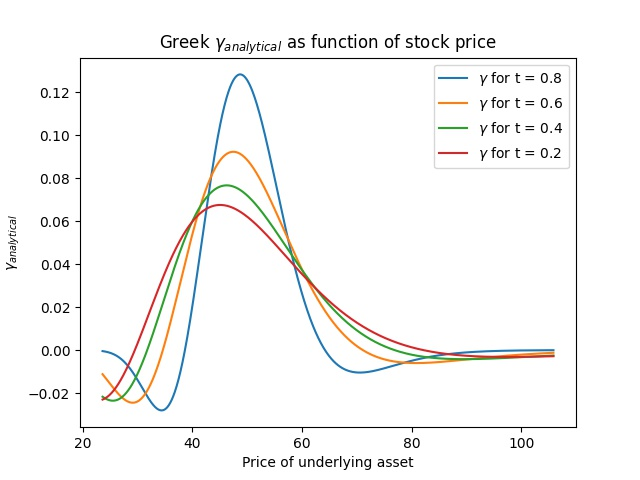
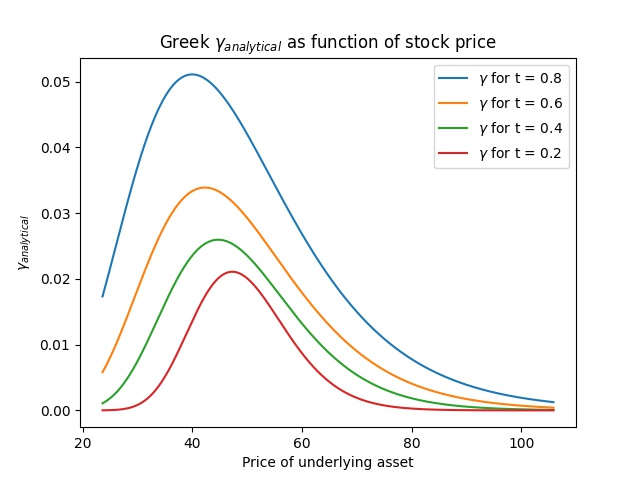
Added new expressions for the analytical greeks
Seem to fit better

diff --git a/Project5_BS/CodeBase/visualize.py b/Project5_BS/CodeBase/visualize.py
@@ -8,6 +8,7 @@ from scipy.misc import derivative
 sigma = 0.4
 E = 50
 r = 0.04
+D = 0.12
 
 
 data = open("u.txt", "r")
@@ -46,16 +47,14 @@ plt.savefig("Results/Num_sol.jpeg")
 plt.show()
 
 
-def d1(S_t, ti):
-    global t
-    global sigma
-    global E
+def d1(S_t, ti,sigma):
+
 
     return 1 / (sigma * np.sqrt(np.max(t) - ti)) * (np.log(S_t / E) + (r + sigma**2 / 2) * (np.max(t) - ti))
 
 
-def d2(S_t, ti):
-    return d1(S_t, ti) - sigma * np.sqrt(np.max(t) - ti)
+def d2(S_t, ti,sigma):
+    return d1(S_t, ti,sigma) - sigma * np.sqrt(np.max(t) - ti)
 
 
 def N(d):
@@ -63,7 +62,7 @@ def N(d):
 
 
 def Vana(S_t, ti, sigma, r):
-    return N(d1(S_t, ti)) * S_t - N(d2(S_t, ti)) * E * np.exp(-r * (np.max(t) - ti))
+    return N(d1(S_t, ti,sigma)) * S_t - N(d2(S_t, ti,sigma)) * E * np.exp(-r * (np.max(t) - ti))
 
 
 for i in range(1, len(t)):
@@ -174,6 +173,7 @@ plt.savefig("Results/delta.jpeg")
 plt.show()
 
 
+
 for i in range(1, len(t)):
     plt.plot(S[1:-3], gamma(V[i, 1:-1], S[1:-1]),
              label=r"$\gamma$ for t = {:.1f}".format(T - t[i]))
@@ -183,7 +183,6 @@ plt.ylabel(r"$\gamma$ ")
 plt.title(r"Greek $\gamma$ as function of stock price")
 plt.savefig("Results/gamma.jpeg")
 plt.show()
-
 
 # Rho and Vega
 for i in range(len(tsigma)):
@@ -195,7 +194,6 @@ plt.ylabel(r"vega ")
 plt.title(r"Greek vega as function of volatility")
 plt.savefig("Results/vega.jpeg")
 plt.show()
-
 
 for i in range(len(trho)):
     plt.plot(rho[:-1], rhos(VR[i], rho),
@@ -279,8 +277,32 @@ def rho_ana(r, S, tau):
 
 print(trho)
 
+
+
+St = np.max(S)
+
+def n(x):
+    return np.exp(-x**2/2)/(np.sqrt(2*np.pi))
+
+def altdelta(St,tau):
+    return np.exp(-D*tau)*N(d1(St,tau,sigma))
+
+def altgamma(S,tau):
+    return np.exp(-D*tau)*n(d1(S,tau,sigma))/(np.sqrt(tau)*S*sigma)
+
+def altvega(S,tau,sig):
+    return S*np.exp(-D*tau)*n(d1(S,tau,sig))
+
+def alttheta(S,tau):
+    return -np.exp(-D*tau)*S*n(d1(S,tau,sigma))*sigma/(np.sqrt(tau)*2) - \
+    E*r*np.exp(-r*tau)*N(d2(S,tau,sigma)) + D*S*np.exp(-D*tau)*N(d1(S,tau,sigma))
+
+
+def altrho(r,tau):
+    return E*tau*np.exp(-r*tau)*N(d1(St,tau,sigma))
+
 for i in range(len(trho)-1):
-    plt.plot(S, delta_ana(S, trho[i]),
+    plt.plot(S, altdelta(S, trho[i]),
              label=r"$\Delta$ for t = {:.1f}".format(T - trho[i]))
 plt.legend()
 plt.xlabel("Price of underlying asset")
@@ -289,8 +311,9 @@ plt.title(r"Greek $\Delta_{analytical}$ as function of stock price")
 plt.savefig("Results/delta_ana.jpeg")
 plt.show()
 
+
 for i in range(len(trho)-1):
-    plt.plot(S, gamma_ana(S, trho[i]),
+    plt.plot(S, altgamma(S, trho[i]),
              label=r"$\gamma$ for t = {:.1f}".format(T - trho[i]))
 plt.legend()
 plt.xlabel("Price of underlying asset")
@@ -299,10 +322,7 @@ plt.title(r"Greek $\gamma_{analytical}$ as function of stock price")
 plt.savefig("Results/gamma_ana.jpeg")
 plt.show()
 
-St = np.max(S)
-
-
-plt.plot(trho, theta_ana(St, trho),
+plt.plot(trho, alttheta(St, trho),
          label=r"$\Theta$($\tau$)")
 plt.legend()
 plt.xlabel(r"Time $\tau$ ")
@@ -312,7 +332,7 @@ plt.savefig("Results/theta_ana.jpeg")
 plt.show()
 
 for i in range(len(tsigma)-1):
-    plt.plot(sig, vega_ana(sig, St, tsigma[i]),
+    plt.plot(sig, altvega(St, tsigma[i],sig),
              label=r"$\nu$ for t = {:.1f}".format(T - tsigma[i]))
 plt.legend()
 plt.xlabel(r"Volatility $\sigma$")
@@ -322,9 +342,8 @@ plt.savefig("Results/vega_ana.jpeg")
 plt.show()
 
 
-
 for i in range(len(trho)-1):
-    plt.plot(rho, rho_ana(rho, St, trho[i]),
+    plt.plot(rho, altrho(rho,trho[i]),
              label=r"$\rho$ for t = {:.1f}".format(T - trho[i]))
 plt.legend()
 plt.xlabel("Risk free interest rate")
